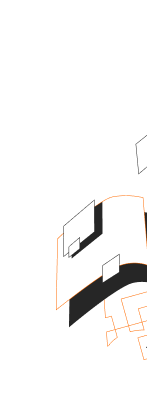
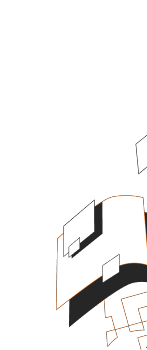
update styles.css
update image, styles.css, and index.html

diff --git a/styles.css b/styles.css
@@ -1,5 +1,7 @@
 @import url('https://fonts.googleapis.com/css2?family=Poppins:ital,wght@0,100;0,200;0,300;0,400;0,500;0,600;0,700;0,800;0,900;1,100;1,200;1,300;1,400;1,500;1,600;1,700;1,800;1,900&display=swap');
-
+@import url('https://fonts.googleapis.com/css2?family=Abril+Fatface&family=Crete+Round&family=Merriweather:wght@300&family=Roboto:wght@700&family=Sacramento&family=Ubuntu:wght@300;400;700&display=swap');
+@import url('https://fonts.googleapis.com/css2?family=Abril+Fatface&family=Crete+Round&family=Merriweather:wght@300&family=Roboto:wght@700&family=Sacramento&family=Ubuntu:wght@300;400;700&display=swap');
+  
 * {
   margin: 0;
   padding: 0;
@@ -17,22 +19,26 @@ html {
   display: flex;
   align-items: center;
   background-color: #3c3a39;
+  justify-content: space-between;
+  margin-right: 24px;
 }
 
 .logo {
   width: 77px;
   height: 24px;
-  font-family: Roboto, sans-serif;
+  font-family: 'Roboto', 'sans-serif';
   font-weight: 700;
   font-size: 18px;
   line-height: 24px;
+  margin-left: 10px;
   font-style: bold;
   align-items: center;
   color: #fff;
+  text-decoration: none;
 }
 
 .navbar {
-  left: 24px;
+  margin-right: 24px;
   display: flex;
 }
 
@@ -41,18 +47,19 @@ html {
   width: 375px;
   height: 600px;
   display: flex;
-  align-items: center;
+  /* align-items: center;   */
   background-image: url(./images/bgimage.png);
   background-repeat: no-repeat;
-  background-position: 100%;
-  background-position-x: bottom-right;
+  background-position: bottom;
+  background-position-x: 100%;
 }
+ 
 
 section {
   display: flex;
   flex-direction: column;
   align-items: flex-start;
-  height: 100%;
+  height: 100%; 
 }
 
 .title {
@@ -61,7 +68,7 @@ section {
   margin-top: 120px;
   margin-left: 24px;
   display: flex;
-  font-family: Crete Round, sans-serif;
+  font-family: 'Crete Round', 'sans-serif';
   font-weight: 400;
   font-size: 56px;
   line-height: 64px;
@@ -76,7 +83,7 @@ h3 {
   left: 24px;
   margin-top: 20px;
   margin-left: 24px;
-  font-family: Roboto, sans-serif;
+  font-family: 'Roboto', 'sans-serif';
   font-weight: 700;
   font-size: 24px;
   line-height: 32px;
@@ -91,7 +98,7 @@ h3 {
   margin-top: 35px;
   margin-bottom: 0;
   margin-left: 24px;
-  font-family: Poppins, sans-serif;
+  font-family: 'Poppins', s'ans-serif';
   font-weight: 400;
   font-size: 16px;
   line-height: 24px;
@@ -103,6 +110,7 @@ h3 {
   margin-top: 21px;
   width: auto;
   margin-left: 24px;
+  list-style-type: none;
 }
 
 #twitter {

diff --git a/index.html b/index.html
@@ -8,7 +8,7 @@
     </head>
     <body>
         <header class="header">
-            <h2 class="logo">PETER</h2>
+            <h1 class="logo"><a class="logo" href="#home">PETER</a></h1>
     <nav class="navbar">
         <svg width="24" height="24" viewBox="0 0 24 24" fill="none" xmlns="http://www.w3.org/2000/svg">
             <path fill-rule="evenodd" clip-rule="evenodd"
@@ -17,20 +17,20 @@
         </svg>              
     </nav>
     </header>
-            <div class="top-section">
-                <section>
-                        <h2 class="title">Hi there.<br>I'm Peter</h2>
+            <!-- <div class="top-section"> -->
+                <section class="top-section">
+                        <h1 class="title">Hi there.<br>I'm Peter</h1>
                         <h3>I'm a software developer</h3>
                         <p class="title-paragraph">I can help you build a project, feature or website Look through some of my work and experience! if you like whatyou see and have a project you need coded, don't hesitate to contact me. </p>
                     <div class="socials">
                         <ul class="social">
-                                <i class="fa-brands fa-twitter" id="twitter"></i>
-                                <i class="fa-brands fa-linkedin" id="linkedin"></i>
-                                <i class="fa-brands fa-github" id="github"></i>
+                                <li><i class="fa-brands fa-twitter" id="twitter"></i></li>
+                                <li><i class="fa-brands fa-linkedin" id="linkedin"></i></li>
+                                <li><i class="fa-brands fa-github" id="github"></i></li>
                         </ul>
                     </div>
                 </section>
-            </div>
+            <!-- </div> -->
             <script src="https://kit.fontawesome.com/4e655bdddb.js" crossorigin="anonymous"></script>
     </body>
     </html>
